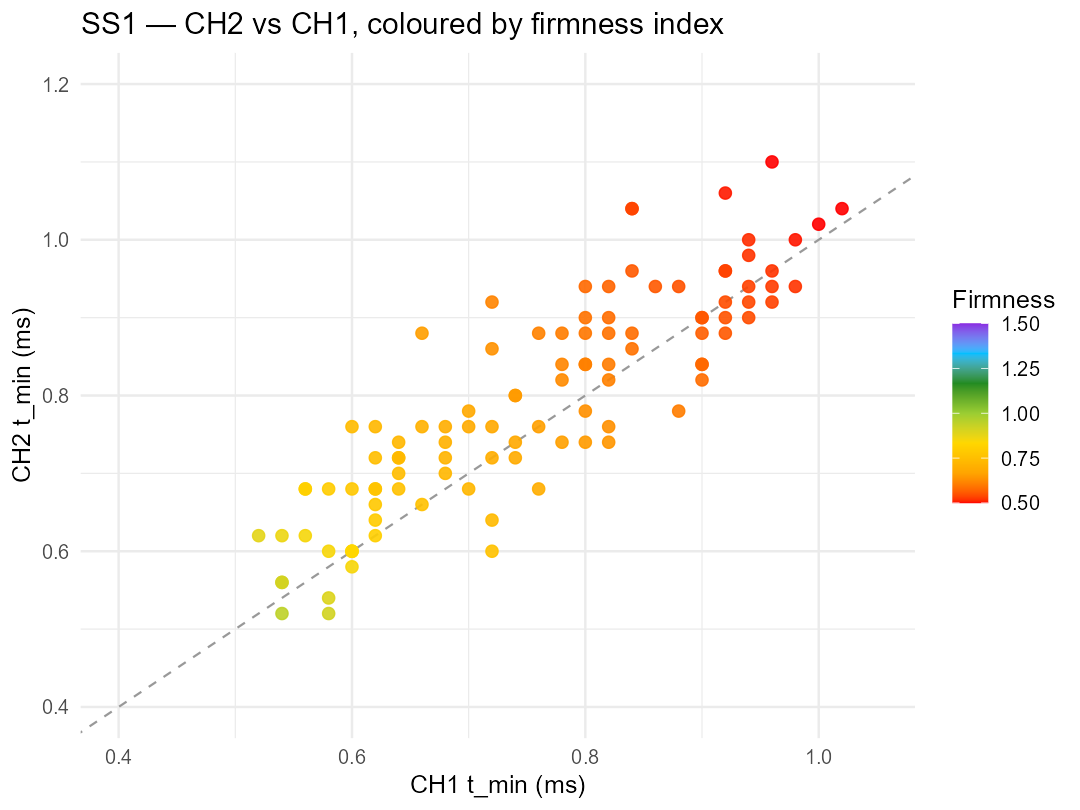
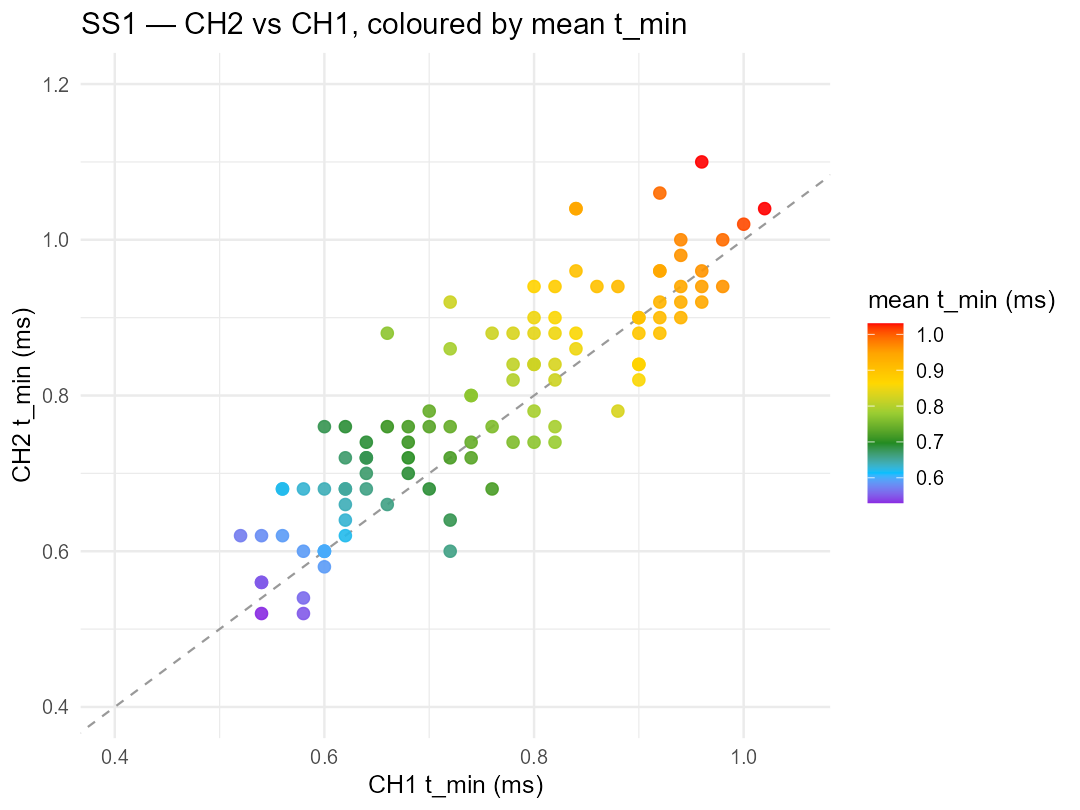
SS1: drop bogus 'firmness formula', recolor by mean t_min
The previous SS1 invented a 0.5 / sqrt(CH1*CH2) 'firmness' index
and presented it as a formula, which is misleading - there is no
such firmness definition. Replace with mean t_min as a transparent
geometric coloring; update title, legend, README, and prose
accordingly.

diff --git a/README.md b/README.md
@@ -23,8 +23,8 @@ observed on the real instrument.
 * `R/batch_plots.R` — writes ~26 per-fruit PNGs to `figures/traces/`.
 * `analysis.Rmd` — knit to a self-contained HTML report containing
   example traces, the CH1 × CH2 scatter coloured by trial, and an
-  **SS1** view of the same scatter coloured by a continuous firmness
-  index (rainbow gradient: red = soft, purple = firm).
+  **SS1** view of the same scatter coloured by mean `t_min` (rainbow
+  gradient: purple = early minimum, red = late minimum).
 
 ## Reproducing
 
@@ -41,9 +41,9 @@ rmarkdown::render("analysis.Rmd")   # writes analysis.html + figures/*.png
   cyan), each annotated with a vertical bar at its detected minimum.
 * **CH1 × CH2 scatter** — most fruits sit near the diagonal; vertical
   excursions are CH2-only outliers.
-* **SS1 — firmness gradient scatter** — same axes, coloured by
-  `0.5 / sqrt(CH1 · CH2)`. Lower-left = firmer (early minimum on both
-  channels); upper-right = softer.
+* **SS1 — t_min gradient scatter** — same axes, coloured by the mean
+  of CH1 and CH2 minima. Lower-left = early minimum on both channels;
+  upper-right = late minimum on both channels.
 
 ## Disclaimer
 